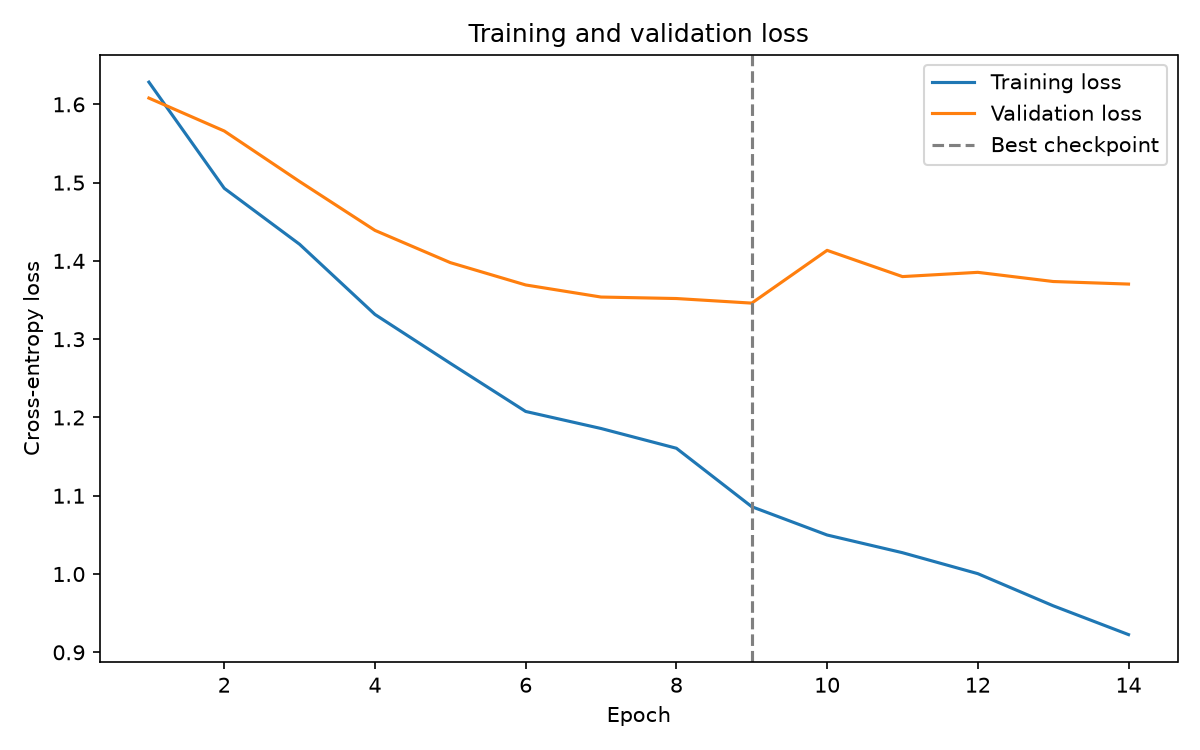
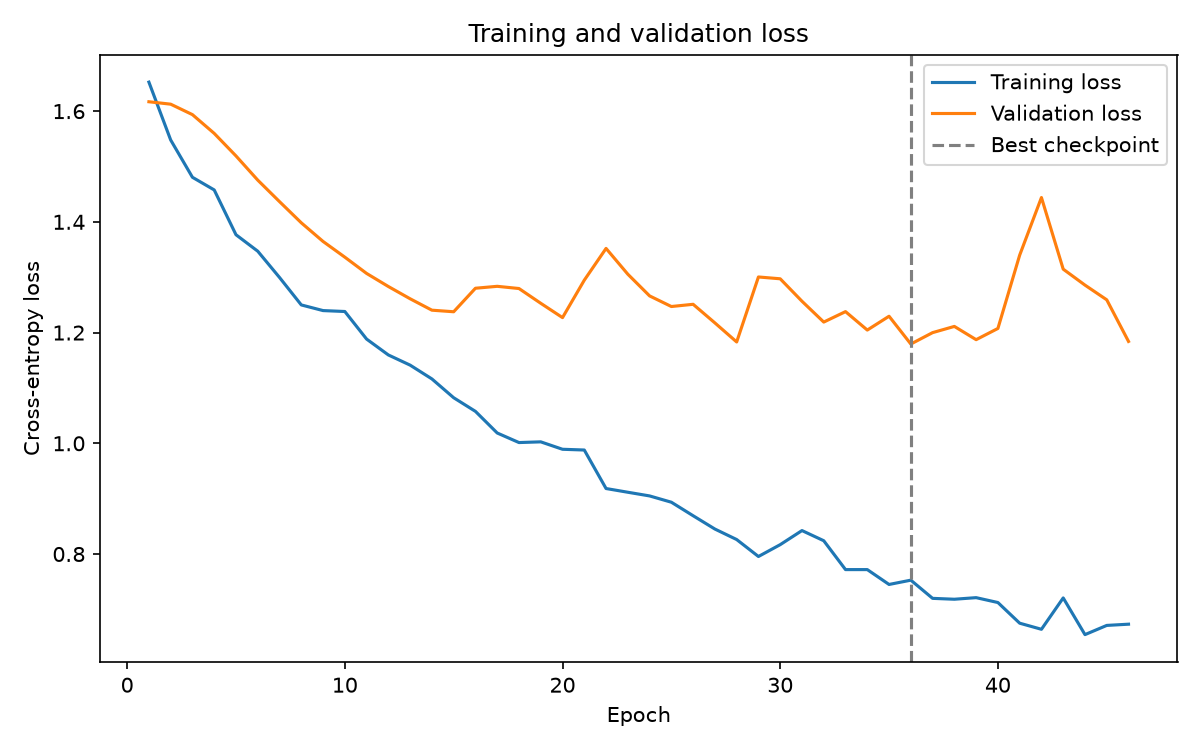
dfcn changes

diff --git a/models/__init__.py b/models/__init__.py
@@ -9,7 +9,7 @@ def create_model(model, model_params):
             num_classes=model_params.num_classes
         )
 
-    elif model == "dilated_fcn":
+    elif model == "dfcn":
         return DilatedFCN(
             in_channels=model_params.in_channels,
             num_classes=model_params.num_classes,
